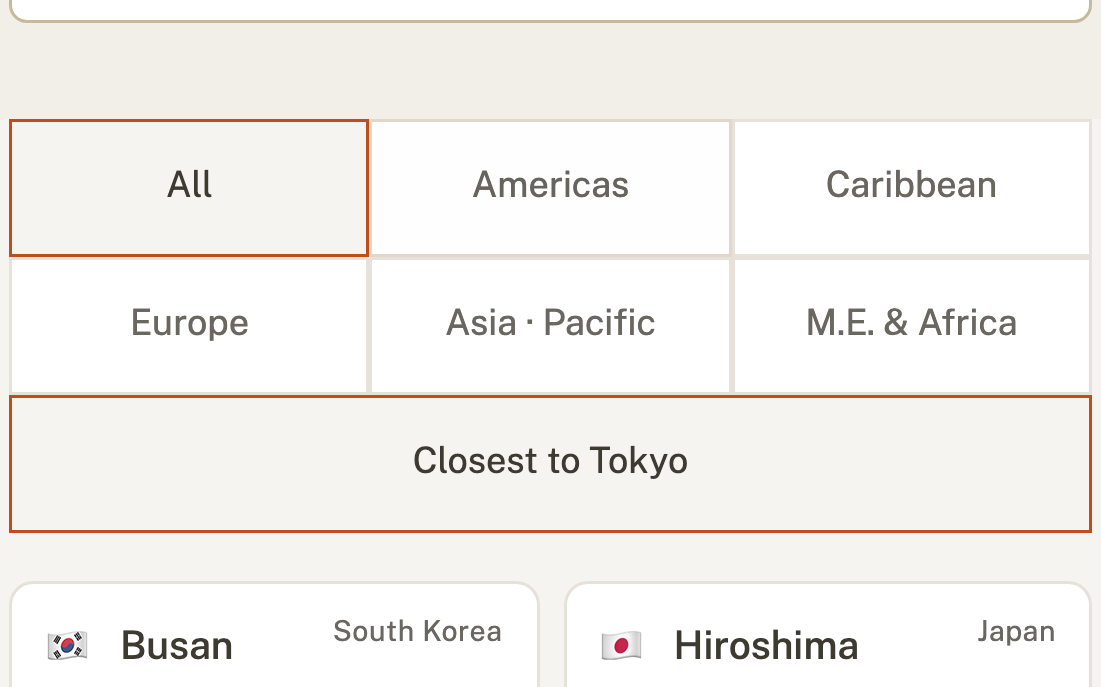
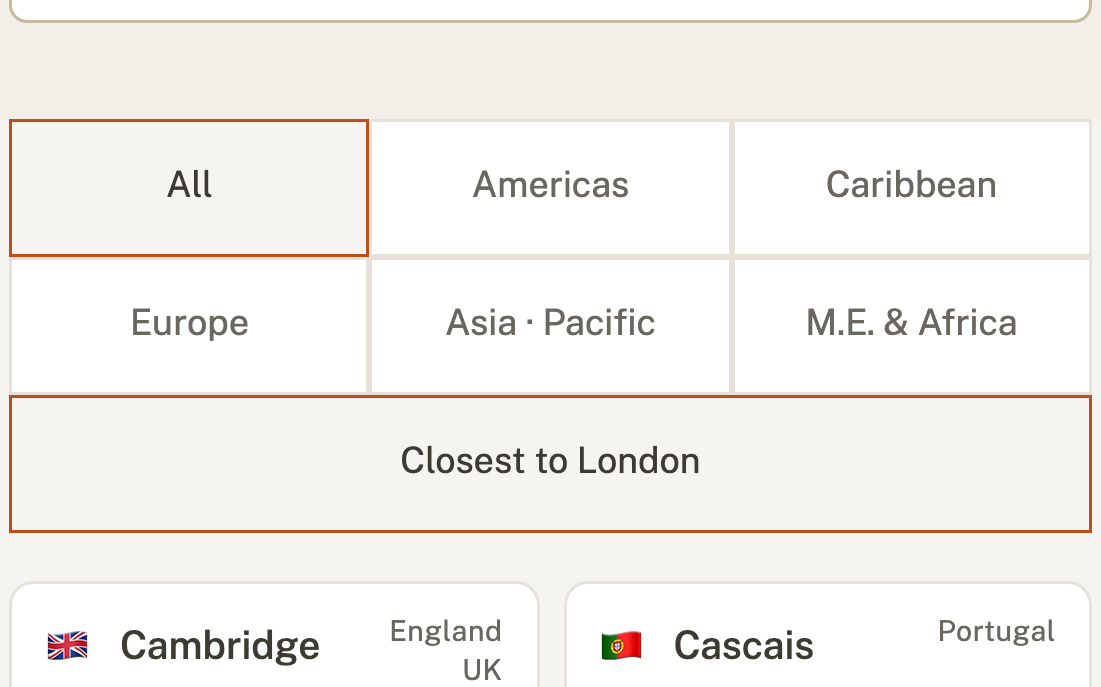
Time Zones: fix mid-word city-name breaks, use US/UK reference cities on the landing carousel
- .card-city inherited mobile.css's global `a { word-break: break-word }`
  through the card's own <a class="card"> wrapper, so a long single-word city
  name (Charlotte, Columbia, Curacao) split mid-letter whenever a wide
  state+country label (e.g. "North Carolina / USA") squeezed its column.
  Restored word-boundary-only wrapping on .card-city.
- Landing carousel's Time Zones steps now search New York / London instead
  of Tokyo / Dubai -- more relatable reference cities, and tz-4 now lands on
  the actual Same-to-+1hr transition so the badge contrast is visible in
  frame.

diff --git a/Travel-Website/index.html b/Travel-Website/index.html
@@ -3505,8 +3505,8 @@ window.lpGuideCard = function (href, flag, name, extra) {
       ['wx-4', 1101, 687, 1, '&deg;C or &deg;F, your call', 'One tap switches every number on the page &mdash; Bali&rsquo;s August high reads 24° or 75°, same chart either way.', '/weather/']
     ],
     'lp-plan': [
-      ['tz-2', 1101, 687, 1, 'Search a city. See the whole world from there.', 'Every destination re-measured from Tokyo: local time, UTC offset, and how many hours ahead or behind.', '/time-zones/'],
-      ['tz-4', 1101, 687, 1, 'The badge changes with every search', 'From Dubai, Athens and Cairo read &minus;1 hr &mdash; the same two cities that read &minus;6 hr from Tokyo.', '/time-zones/'],
+      ['tz-2', 1101, 687, 1, 'Search a city. See the whole world from there.', 'Every destination re-measured from New York: local time, UTC offset, and how many hours ahead or behind.', '/time-zones/'],
+      ['tz-4', 1101, 687, 1, 'The badge changes with every search', 'From London, most of Western Europe reads &ldquo;Same&rdquo; &mdash; the same cities that read &plus;1 hr the moment France or Norway comes into view.', '/time-zones/'],
       ['tz-3', 1101, 687, 1, 'Narrow it, or sort by distance', 'Region pills cut it down by continent, and the sort pill turns on the moment you search &mdash; closest to your city, first.', '/time-zones/'],
       ['wtg-3', 1101, 687, 0, 'Every city that matches', '97 places, this time &mdash; sorted, with the temperatures and the rainy days, each one straight into its guide.', '/when-to-go/'],
       ['wtg-4', 1101, 687, 1, 'Or start from a mood', 'Beach weather. Mild spring. Winter escape. Cool autumn. One tap sets the month and the temperature band for you.', '/when-to-go/'],

diff --git a/Travel-Website/time-zones/index.html b/Travel-Website/time-zones/index.html
@@ -97,7 +97,15 @@ a.pill:visited { color: #6a6660; }
 .card-top    { display: flex; align-items: flex-start; justify-content: space-between; gap: 6px; }
 .card-top-left { display: flex; align-items: center; gap: 6px; }
 .card-flag   { font-size: 15px; line-height: 1; flex-shrink: 0; }
-.card-city   { font-size: 13px; font-weight: 500; color: var(--text); }
+/* mobile.css sets `a, code, pre { overflow-wrap: break-word; word-break:
+   break-word }` — a card is `<a class="card card-link">` whenever it has a
+   guide URL, so that inherits straight into .card-city and breaks a long
+   single-word city name mid-letter ("Charlotte" -> "Charlott" / "e") the
+   moment a wide two-line state+country label (e.g. "North Carolina / USA")
+   squeezes its share of the row. Word-boundary wrapping only — a name that
+   still does not fit its own line may wrap at a space ("Hilton Head Island"),
+   never split a word in two. */
+.card-city   { font-size: 13px; font-weight: 500; color: var(--text); overflow-wrap: normal; word-break: normal; }
 .card-country{ font-size: 9.5px; color: var(--muted); text-align: right; flex-shrink: 0; max-width: 90px; line-height: 1.3; letter-spacing: .02em; }
 .card-clock  { display: flex; align-items: baseline; gap: 5px; }
 .card-time   { font-size: 22px; font-weight: 600; color: var(--rust-ink, #C04E1A); font-variant-numeric: tabular-nums; letter-spacing: -.01em; line-height: 1; cursor: copy; }
